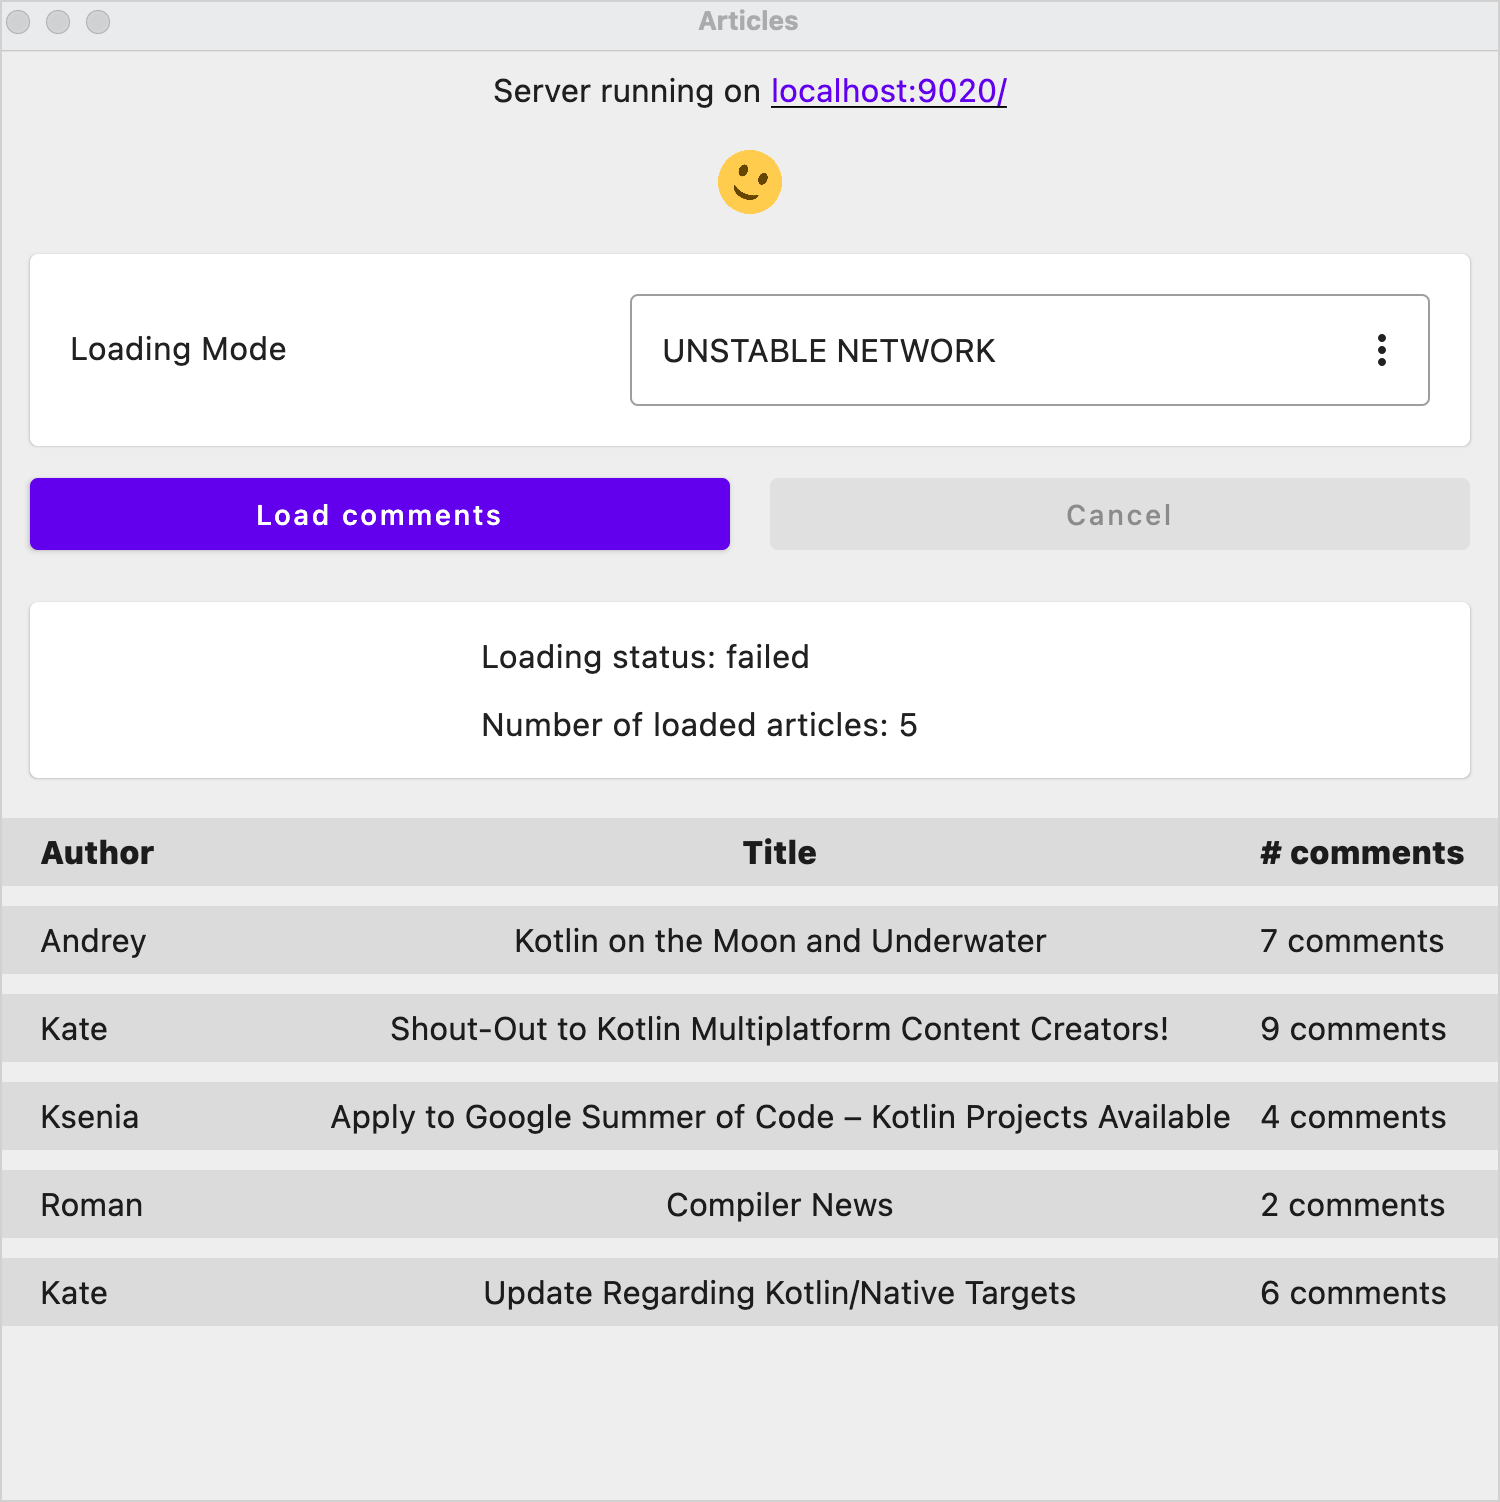
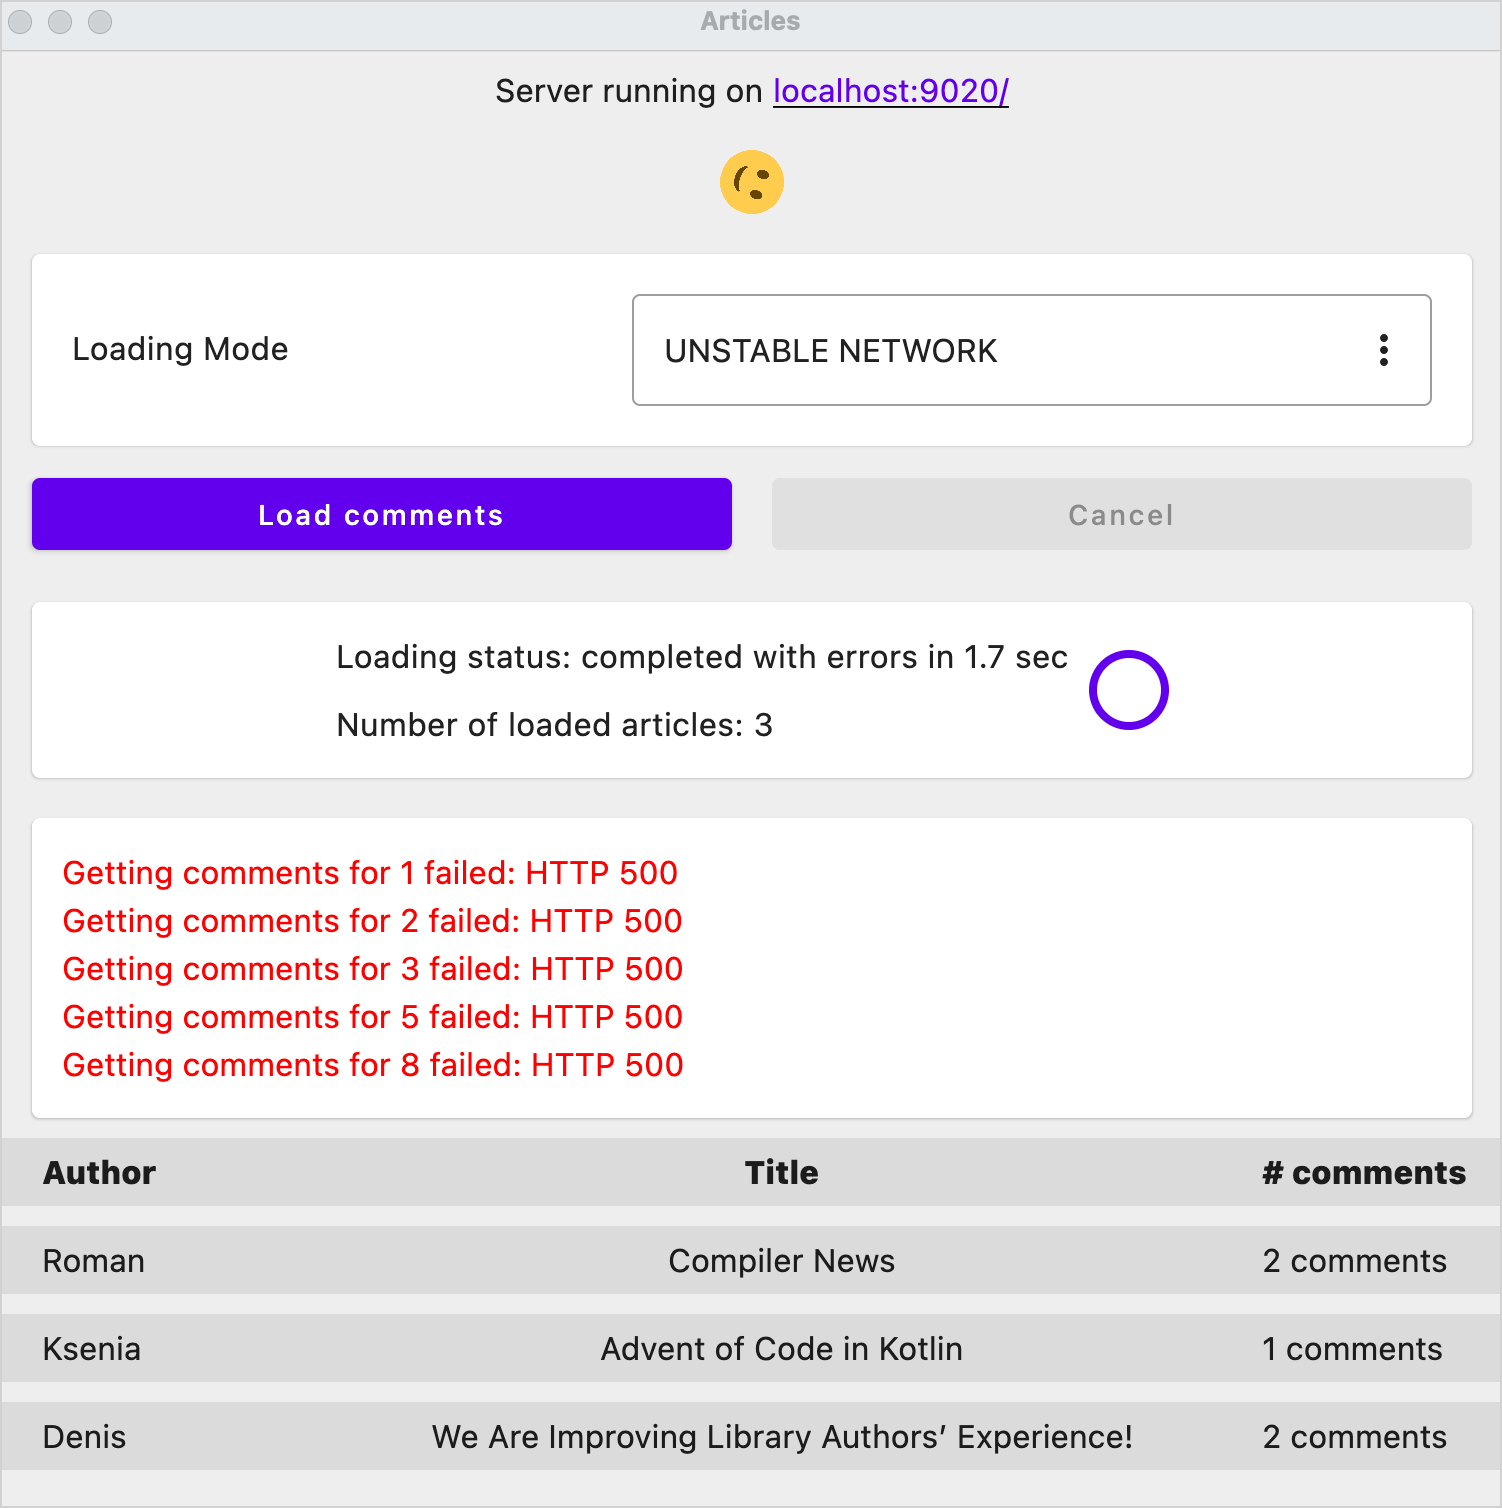
update: adding new test and aligning with project 2/2 for exception

diff --git a/docs/topics/coroutines-tutorial-exceptions.md b/docs/topics/coroutines-tutorial-exceptions.md
@@ -21,7 +21,7 @@ loadingScope.launch {
     val startTime = TimeSource.Monotonic.markNow()
     try {
         val articleResults = observeArticlesUnstable(service)
-        updateResultsWithProgress(articleResults, startTime)
+        updateResultsWithFailures(articleResults, startTime)
     } catch (e: NetworkException) {
         e.printStackTrace()
     }
@@ -102,6 +102,18 @@ Other child coroutines can continue running, and you can start new child corouti
 
 Open the `desktop-client/src/jvmMain/kotlin/org/example/articles/tasks/Task6Exceptions.kt` file.
 
+This file declares the `ArticleResult` type, which represents the outcome of loading one article:
+
+```kotlin
+sealed interface ArticleResult {
+    data class Success(val article: Article) : ArticleResult
+    data class Failure(val articleInfo: ArticleInfo, val exception: Throwable) : ArticleResult
+}
+```
+
+A `Success` object holds a loaded `Article` object.
+A `Failure` object holds the article information and the exception that stopped the request.
+
 The initial `observeArticlesUnstable()` function loads the comments for one article at a time and doesn't handle exceptions:
 
 ```kotlin
@@ -165,7 +177,7 @@ If `viewModelScope` is canceled, cancellation still propagates to `loadingScope`
 
 Run the application again, select **UNSTABLE_NETWORK**, and click **Load comments**.
 
-The `observeArticlesUnstable()` function still throws a `NetworkException`, so the loading attempt fails.
+The `observeArticlesUnstable()` function still doesn't handle exceptions, so an unsuccessful response fails the loading attempt.
 
 [`CoroutineExceptionHandler`](https://kotlinlang.org/api/kotlinx.coroutines/kotlinx-coroutines-core/kotlinx.coroutines/-coroutine-exception-handler/)
 handles exceptions that a coroutine can't propagate to a parent.
@@ -177,13 +189,20 @@ If you click **Load comments** again, the application starts another loading att
 
 ## Load comments from an unstable network
 
-The initial `observeArticlesUnstable()` function deliberately throws a `NetworkException` before requesting any data.
-This makes the effect of a failed loading attempt easy to observe.
-
-Now, in the next task you will replace the deliberate exception with the article-loading logic.
-The `desktop-client/src/jvmMain/kotlin/org/example/articles/network/BlogService.kt` file declares the `getCommentsUnstable()` suspending function for requesting comments with simulated network failures:
+The `desktop-client/src/jvmMain/kotlin/org/example/articles/network/BlogService.kt` file declares the `getArticleInfoListUnstable()`
+and `getCommentsUnstable()` suspending functions for requesting data with simulated network failures:
 
 ```kotlin
+override suspend fun getArticleInfoListUnstable(): List<ArticleInfo> {
+    log("Started loading articles")
+    val response = client.get(articlesUnstableEndpoint)
+    response.throwIfUnsuccessful("Loaded articles failure: ${response.status}")
+    return response.body<List<ArticleInfo>>()
+        .also { 
+            log("Loaded articles unstable") 
+        }
+}
+
 override suspend fun getCommentsUnstable(articleInfo: ArticleInfo): List<Comment> {
     log("Started loading comments for article ${articleInfo.title}")
     val response = client.get(commentsUnstableEndpoint(articleInfo.id))
@@ -195,12 +214,30 @@ override suspend fun getCommentsUnstable(articleInfo: ArticleInfo): List<Comment
 }
 ```
 
-The function sends an HTTP request that has a 30% chance of returning an unsuccessful response.
-When the response is unsuccessful, the function throws a `NetworkException`:
+Each function sends an HTTP request that has a 30% chance of returning an unsuccessful response.
+When a response is unsuccessful, the shared `throwIfUnsuccessful()` function throws a `NetworkException`:
+
+```kotlin
+private fun HttpResponse.throwIfUnsuccessful(failureLog: String) {
+    if (!status.isSuccess()) {
+        log(failureLog)
+        throw NetworkException("HTTP ${status.value}")
+    }
+}
+```
+
+The same file declares this exception type:
 
 ```kotlin
 class NetworkException(message: String) : Exception(message)
 ```
+
+The `getArticleInfoListUnstable()` call runs before any comment requests.
+If it throws a `NetworkException`, the exception propagates from the flow and stops the loading attempt.
+The initial `observeArticlesUnstable()` function also lets exceptions from individual comment requests propagate.
+As a result, one unsuccessful comment response stops the loading attempt, even though the comments for the remaining articles could still load.
+
+The comment requests are independent, so in the next task you'll handle each failure separately.
 
 ### Task – Implement article loading from an unstable network
 
@@ -208,55 +245,99 @@ Open the `desktop-client/src/jvmMain/kotlin/org/example/articles/tasks/Task6Exce
 It contains the following `observeArticlesUnstable()` function:
 
 ```kotlin
-fun observeArticlesUnstable(service: BlogService): Flow<Article> = flow {
-    throw NetworkException("Loading articles was unsuccessful.")
-}
-```
-
-Replace the deliberately thrown `NetworkException` with code that:
-
-* Requests the list of available articles.
-* Loads the comments for one article at a time with the `getCommentsUnstable()` function.
-* Emits each resulting `Article` object after its comments have loaded.
-
-#### Tip for article loading from an unstable network {initial-collapse-state="collapsed" collapsible="true" id="unstable-loading-tip"}
-
-Adapt the sequential flow structure of the `observeArticlesLoading()` function in the `Task4Progress.kt` file.
-
-#### Solution for article loading from an unstable network {initial-collapse-state="collapsed" collapsible="true" id="unstable-loading-solution"}
-
-1. Call the `getArticleInfoList()` function and store the returned list.
-2. Use a `for` loop to process each `ArticleInfo` object.
-3. For each object:
-    * Call the `getCommentsUnstable()` function.
-    * Create an `Article` object from the article information and comments.
-    * Use the `emit()` function to emit the `Article` object.
-
-```kotlin
-// Task: Implement loading of articles from an unstable network
-fun observeArticlesUnstable(service: BlogService): Flow<Article> = flow {
-    val list = service.getArticleInfoList()
-    for (articleInfo in list) {
-        emit(Article(articleInfo, service.getCommentsUnstable(articleInfo)))
+fun observeArticlesUnstable(service: BlogService): Flow<ArticleResult> = flow {
+    val articleInfoList = service.getArticleInfoListUnstable()
+    articleInfoList.forEach { articleInfo ->
+        val comments = service.getCommentsUnstable(articleInfo)
+        emit(ArticleResult.Success(Article(articleInfo, comments)))
     }
 }
 ```
 
-If `getCommentsUnstable()` returns the comments, the flow emits the corresponding `Article` object.
-If the function throws a `NetworkException`, the exception stops the flow and propagates to the loading coroutine.
+Update the function so that it:
+
+* Requests the list of available articles with the `getArticleInfoListUnstable()` function.
+* Starts a child coroutine for each `ArticleInfo` object.
+* Loads the comments for the articles concurrently with the `getCommentsUnstable()` function.
+* Sends an `ArticleResult.Success` object when the comments for an article have loaded.
+* Sends an `ArticleResult.Failure` object when the request for an article's comments throws a `NetworkException`.
+
+Keep the `getArticleInfoListUnstable()` call outside the `try` block so that any exception it throws propagates from the flow and stops the loading attempt.
+
+#### Tip for article loading from an unstable network {initial-collapse-state="collapsed" collapsible="true" id="unstable-loading-tip"}
+
+Adapt the `channelFlow()` structure of the `observeArticlesConcurrently()` function in the `Task5AsyncProgress.kt` file.
+In each child coroutine, use a `try` block for the `getCommentsUnstable()` call and a `catch` block for the `NetworkException`:
+
+```kotlin
+launch {
+    val result = try {
+        /* Create an ArticleResult.Success object */
+    } catch (exception: NetworkException) {
+        /* Create an ArticleResult.Failure object */
+    }
+    send(result)
+}
+```
+
+#### Solution for article loading from an unstable network {initial-collapse-state="collapsed" collapsible="true" id="unstable-loading-solution"}
+
+1. Use the `channelFlow()` builder function to create the flow.
+2. Call the `getArticleInfoListUnstable()` function and store the returned list.
+3. Use a `.forEach()` function to process each `ArticleInfo` object.
+4. For each object, call the `.launch()` coroutine builder function to start a child coroutine that loads its comments.
+5. In each child coroutine:
+    * Call the `getCommentsUnstable()` function in a `try` block and create an `ArticleResult.Success` object from the article information and comments.
+    * Create an `ArticleResult.Failure` object from the article information and the exception in the `catch` block.
+    * Use the `send()` function to send the result.
+
+```kotlin
+fun observeArticlesUnstable(service: BlogService): Flow<ArticleResult> = channelFlow {
+    val articleInfoList = service.getArticleInfoListUnstable()
+    articleInfoList.forEach { articleInfo ->
+        launch {
+            val result = try {
+                ArticleResult.Success(Article(articleInfo, service.getCommentsUnstable(articleInfo)))
+            } catch (exception: NetworkException) {
+                ArticleResult.Failure(articleInfo, exception)
+            }
+            send(result)
+        }
+    }
+}
+```
+
+The `catch` block handles the `NetworkException` inside the child coroutine, so the exception doesn't propagate to the `channelFlow()` block or affect the other child coroutines.
+Because the `getArticleInfoListUnstable()` call is outside the try block,
+an exception from this call propagates from the flow and stops the loading attempt.
 
 ### Observe loading from an unstable network
 
 Run the application, select **UNSTABLE_NETWORK** from the **Loading Mode** menu, and click **Load comments**.
 
-The application displays each `Article` object emitted before an exception occurs.
-If the `getCommentsUnstable()` function throws a `NetworkException`, the current loading attempt stops and the application displays the failed status.
+The application displays each successfully loaded article and lists failed comment requests in red.
+A failed comment request doesn't stop the remaining requests, and the application displays **Loading status: completed with errors** when loading finishes.
 
-![Article list after an unstable-network request fails, showing five loaded articles and a failed status](unstable-network-failure.png){width="700"}
+![Article list after unstable-network requests fail, showing the loaded articles and the failed requests in red](unstable-network-failure.png){width="700"}
 
 If you click **Load comments** again, the application can start a new loading attempt because the previous exception didn't cancel `loadingScope`.
 
-The simulated failures are random, so a loading attempt can also complete successfully.
+The simulated failures are random, so a loading attempt can also complete without any failed requests.
+
+### Test your implementation
+
+Run the tests in the `desktop-client/src/jvmTest/kotlin/org/example/articles/tasks/Task6ExceptionsKtTest.kt` file.
+
+The tests use the Turbine library to collect the flow and check that the `observeArticlesUnstable()` function:
+
+* Sends an `ArticleResult.Success` object for each article whose comments load successfully.
+* Sends an `ArticleResult.Failure` object with a `NetworkException` for each article whose comments fail to load.
+* Completes after sending a result for every article.
+* Completes within the expected concurrent loading time.
+* Propagates a `NetworkException` when the request for the article list fails.
+
+Instead of `MockBlogService`, the tests use `UnstableMockBlogService` to simulate failures for specific comment requests or the article-list request.
+This makes the simulated failures predictable, so the tests can compare the results with the expected ones.
 
 <list id="tour-nav">
   <li>

diff --git a/docs/topics/coroutines-tutorial-channelflow.md b/docs/topics/coroutines-tutorial-channelflow.md
@@ -242,7 +242,7 @@ The tests use the Turbine library to collect the flow and check that the `observ
 
 The result test compares sets instead of lists because concurrent loading doesn't guarantee the order of the emitted objects.
 
-In the next part of the tutorial, you'll handle exceptions when comment requests fail because of an unstable network.
+In the next part of the tutorial, you'll handle exceptions when requests fail because of an unstable network.
 
 ## Next step
 
